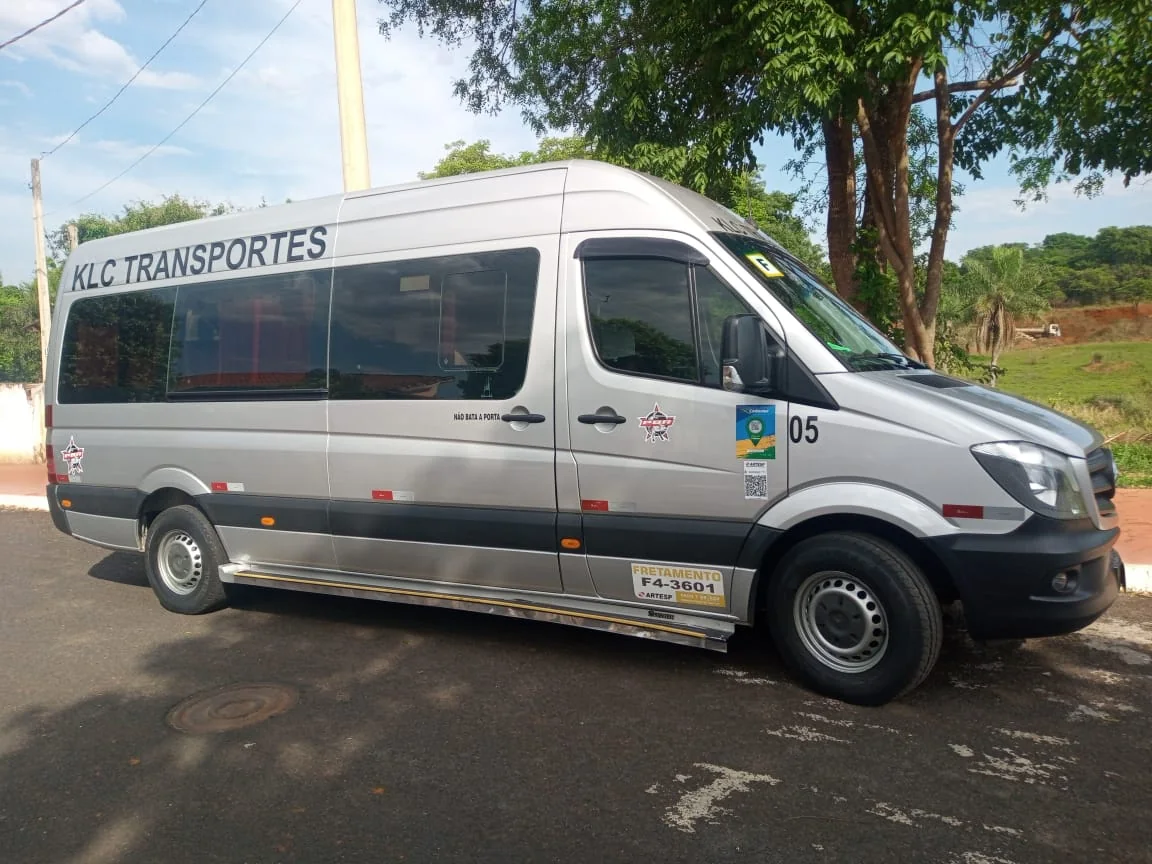
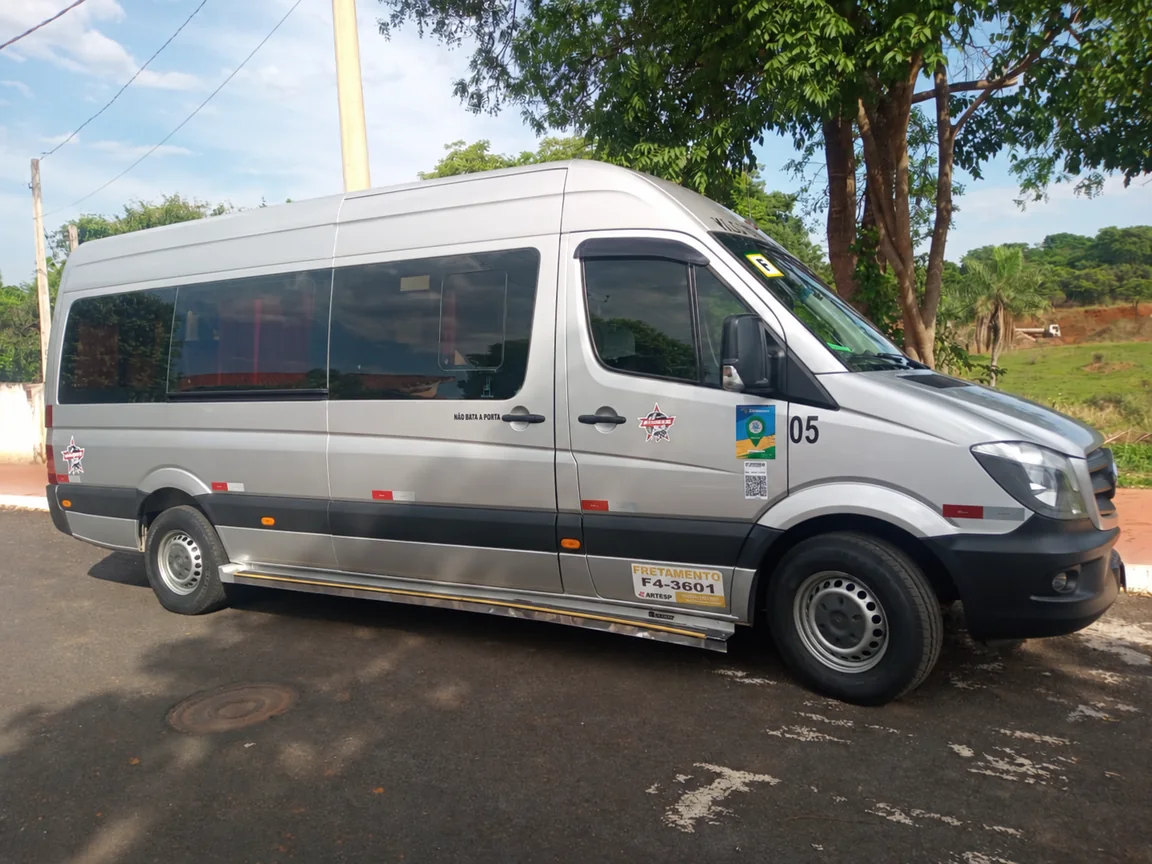
Remove partner company name from van photo

diff --git a/index.html b/index.html
@@ -21,7 +21,7 @@
 <section class="intro section-pad"><div class="container intro-grid"><p class="overline">Apresentação</p><div><h2>Uma viagem mais <em>leve.</em></h2><p>A J&amp;R Transporte atende deslocamentos executivos em São José do Rio Preto e região. Fale com a equipe para consultar disponibilidade e solicitar seu orçamento.</p></div></div></section>
 <section class="services section-pad" id="servicos"><div class="container"><div class="section-heading"><p class="overline">Como podemos ajudar</p><h2>Serviços</h2></div><div class="service-row"><span class="service-number">01</span><div><h3>Transporte executivo</h3><p>Deslocamentos com atendimento executivo. Consulte disponibilidade e detalhes pelo WhatsApp.</p></div><span class="service-rule"></span></div></div></section>
 <section id="regiao" class="region section-pad"><div class="container region-inner"><div><p class="overline">Onde atendemos</p><h2>Perto de você,<br><em>na região.</em></h2></div><p>Atuação em <strong>São José do Rio Preto e região.</strong><br>Consulte pelo WhatsApp se o seu destino está na área atendida.</p></div></section>
-<section class="fleet section-pad" id="frota"><div class="container"><div class="section-heading"><p class="overline">Veículos</p><h2>Frota e parceria</h2></div><div class="fleet-grid"><article class="fleet-item"><img class="fleet-photo" src="/assets/carro-taxi-rio-preto.webp" alt="Carro branco identificado como Táxi Rio Preto à frente de um Corolla Cross preto." width="1280" height="960" loading="lazy" decoding="async"><h3>Carro</h3><p>Consulte a disponibilidade deste veículo com a equipe.</p></article><article class="fleet-item partner"><img class="fleet-photo" src="/assets/van-parceira.webp" alt="Van prata identificada como KLC Transportes, estacionada à sombra de árvores." width="1152" height="864" loading="lazy" decoding="async"><p class="overline">Parceira</p><h3>Van parceira</h3><p>Disponibilidade e informações sob consulta.</p></article></div></div></section>
+<section class="fleet section-pad" id="frota"><div class="container"><div class="section-heading"><p class="overline">Veículos</p><h2>Frota e parceria</h2></div><div class="fleet-grid"><article class="fleet-item"><img class="fleet-photo" src="/assets/carro-taxi-rio-preto.webp" alt="Carro branco identificado como Táxi Rio Preto à frente de um Corolla Cross preto." width="1280" height="960" loading="lazy" decoding="async"><h3>Carro</h3><p>Consulte a disponibilidade deste veículo com a equipe.</p></article><article class="fleet-item partner"><img class="fleet-photo" src="/assets/van-parceira.webp" alt="Van prata parceira estacionada à sombra de árvores." width="1152" height="864" loading="lazy" decoding="async"><p class="overline">Parceira</p><h3>Van parceira</h3><p>Disponibilidade e informações sob consulta.</p></article></div></div></section>
 <section class="clients section-pad" id="empresas"><div class="container clients-inner"><div><p class="overline">Confiança</p><h2>Empresas atendidas</h2><p class="clients-note">Nomes informados pela empresa. Exibidos em texto.</p></div><ul class="client-list"><li>Leroy Merlin</li><li>Grupo Veronese</li><li>Braile Biomédica</li><li>Plante Amor Confecções</li><li>Diário da Região</li><li>Sesc/SP</li><li>Latam</li><li>Conselho Regional de Psicologia</li><li>Hospital do Amor — Barretos</li><li>Hospital de Base</li><li>Santa Casa de Votuporanga</li></ul></div></section>
 <section id="contato" class="contact section-pad"><div class="container contact-inner"><div><p class="overline">Vamos conversar</p><h2>Planeje seu próximo<br><em>deslocamento.</em></h2></div><div class="contact-action"><p>Solicite um orçamento e consulte disponibilidade pelo WhatsApp.</p><a class="button button-gold whatsapp-link" href="https://wa.me/5517997727070?text=Ol%C3%A1%21%20Gostaria%20de%20solicitar%20um%20or%C3%A7amento%20de%20transporte%20executivo%20em%20S%C3%A3o%20Jos%C3%A9%20do%20Rio%20Preto%20e%20regi%C3%A3o.%20Poderiam%20me%20informar%20a%20disponibilidade%3F" target="_blank" rel="noopener noreferrer">Solicitar orçamento pelo WhatsApp <span aria-hidden="true">↗</span></a><p class="contact-note">A mensagem será aberta no WhatsApp para você revisar e enviar.</p></div></div></section>
 </main><footer class="footer"><div class="container footer-inner"><a class="brand brand-footer" href="#inicio"><span class="brand-mark">J<span>&amp;</span>R</span><span class="brand-name">J&amp;R <b>Transporte</b></span></a><p>Transporte executivo<br>São José do Rio Preto e região</p><a href="#inicio">Voltar ao início ↑</a></div><div class="container copyright">© <span id="year"></span> J&amp;R Transporte</div></footer>
